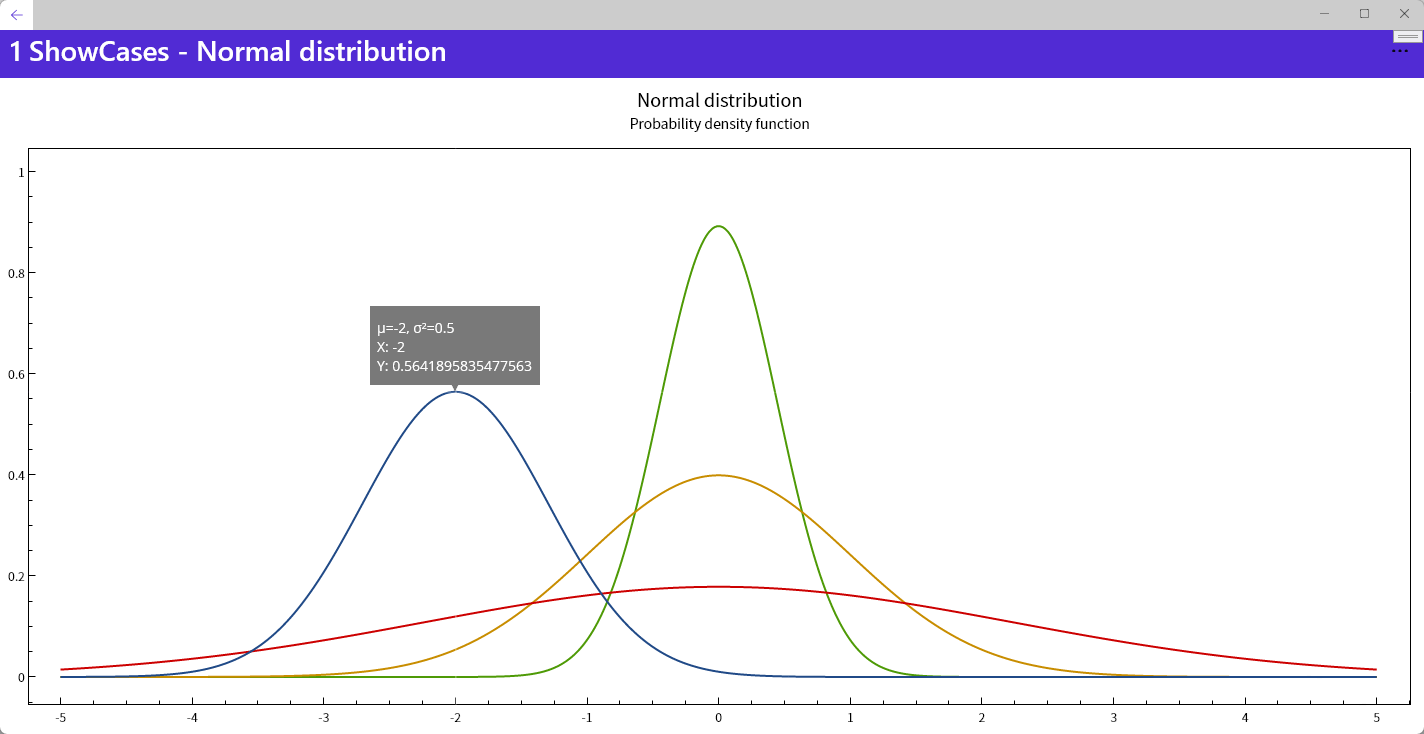
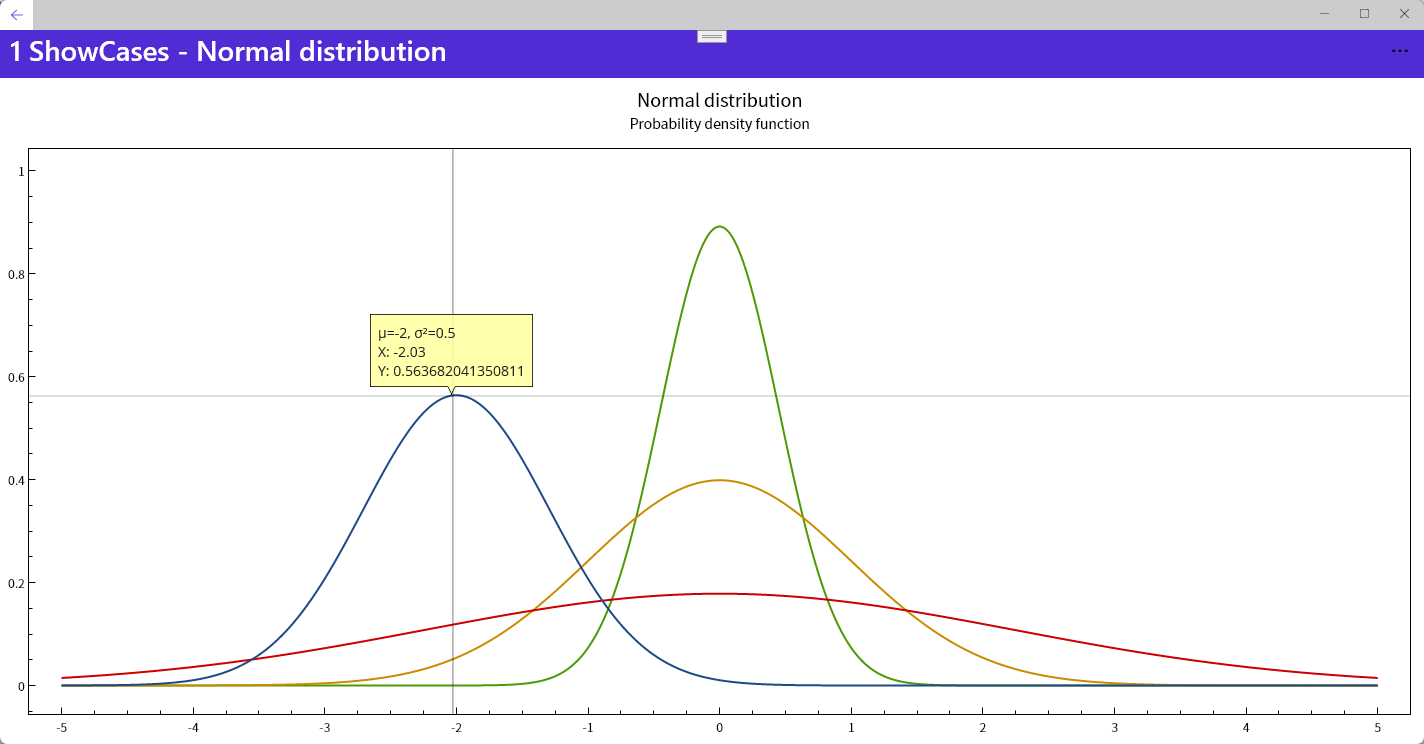
Update Tracker default style

diff --git a/Source/OxyPlot.Maui.Skia/Tracker/TrackerControl.xaml.cs b/Source/OxyPlot.Maui.Skia/Tracker/TrackerControl.xaml.cs
@@ -11,8 +11,8 @@ namespace OxyPlot.Maui.Skia
         {
             InitializeComponent();
 
-            Background = new SolidColorBrush(Color.FromArgb("#E0666666"));
-            LineStroke = new SolidColorBrush(Color.FromArgb("#80FFFFFF"));
+            Background = new SolidColorBrush(Color.FromArgb("#E0FFFFA0"));
+            LineStroke = new SolidColorBrush(Color.FromArgb("#80000000"));
 
             ControlTemplate = (ControlTemplate)Resources["TrackerControlTemplate"];
             IsClippedToBounds = false;
@@ -21,7 +21,6 @@ namespace OxyPlot.Maui.Skia
         public static Func<View> DefaultTrackerTemplateContentProvider = () =>
         {
             var label = new Label();
-            label.TextColor = Colors.White;
             label.Margin = 7;
             label.LineBreakMode = LineBreakMode.WordWrap;
             label.SetBinding(Label.TextProperty, ".");
@@ -82,10 +81,10 @@ namespace OxyPlot.Maui.Skia
             nameof(CornerRadius), typeof(double), typeof(TrackerControl), 0.0);
 
         public static readonly BindableProperty BorderThicknessProperty = BindableProperty.Create(
-            nameof(BorderThickness), typeof(int), typeof(TrackerControl), 0);
+            nameof(BorderThickness), typeof(int), typeof(TrackerControl), 1);
 
         public static readonly BindableProperty BorderBrushProperty = BindableProperty.Create(
-            nameof(BorderBrush), typeof(Brush), typeof(TrackerControl), Brush.White);
+            nameof(BorderBrush), typeof(Brush), typeof(TrackerControl), Brush.Black);
 
         /// <summary>
         /// Identifies the <see cref="Distance" /> dependency property.
@@ -373,11 +372,7 @@ namespace OxyPlot.Maui.Skia
 
             var canvasWidth = parent.Width;
             var canvasHeight = parent.Height;
-            var contentSize = content.DesiredSize;
-            if (contentSize.IsZero)
-            {
-                contentSize = content.Measure(canvasWidth, canvasHeight).Request;
-            }
+            var contentSize = content.Measure(canvasWidth, canvasHeight).Request;
 
             var contentWidth = contentSize.Width;
             var contentHeight = contentSize.Height;
@@ -444,7 +439,7 @@ namespace OxyPlot.Maui.Skia
 
             content.Margin = margin;
 
-            var contentContainerSize = new Size(contentSize.Width + margin.Left + margin.Right, contentSize.Height + margin.Top + margin.Bottom);
+            var contentContainerSize = new Size(contentSize.Width + margin.HorizontalThickness, contentSize.Height + margin.VerticalThickness);
 
             contentContainer.TranslationX = dx * contentContainerSize.Width;
             contentContainer.TranslationY = dy * contentContainerSize.Height;
@@ -541,8 +536,6 @@ namespace OxyPlot.Maui.Skia
             Point[] points = null;
             var m = Distance;
             margin = new Thickness();
-
-            // PathFigureCollectionConverter.ParseStringToPathFigureCollection();
 
             if (ha == HorizontalAlignment.Center && va == VerticalAlignment.Bottom)
             {
@@ -698,6 +691,11 @@ namespace OxyPlot.Maui.Skia
                     new Point(x1, y0),
                     new Point(x1, y1 - m)
                 };
+            }
+
+            if (BorderThickness > 0)
+            {
+                margin += BorderThickness;
             }
 
             if (points == null)
